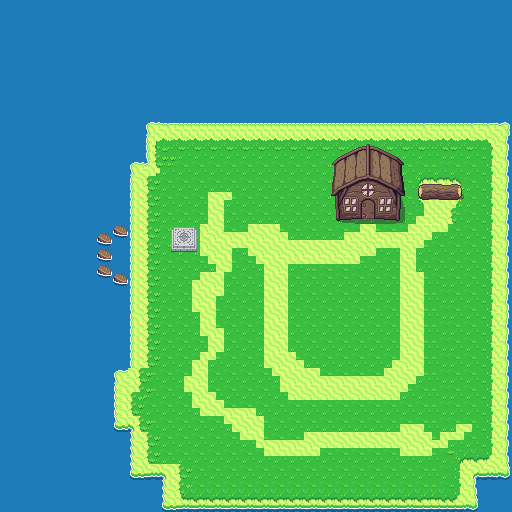
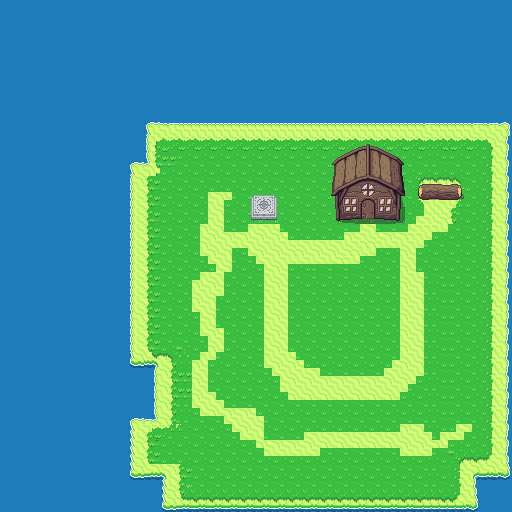
Implement Fishing skill and tweak Lumber Ridge island layout.

diff --git a/source/lumber_ridge.c b/source/lumber_ridge.c
@@ -82,18 +82,18 @@ const unsigned short lumber_ridge_Tile_Layer_1[4096] __attribute__((aligned(4)))
     0x01FE, 0x01FF, 0x01FE, 0x01FF, 0x01FE, 0x01FF, 0x01FE, 0x01FF, 0x0222, 0x0222, 0x0223, 0x0222, 0x01FE, 0x01FF, 0x01FE, 0x01FF, 0x023E, 0x023F, 0x0124, 0x0125, 0x0026, 0x0027, 0x0026, 0x0027, 0x0026, 0x0146, 0x0147, 0x0027, 0x0026, 0x0027, 0x0026, 0x0027, 
     0x0222, 0x0223, 0x0222, 0x0223, 0x0222, 0x0223, 0x0222, 0x0223, 0x0222, 0x01FE, 0x01FF, 0x01FE, 0x0222, 0x0223, 0x0222, 0x0223, 0x023E, 0x023F, 0x0148, 0x0149, 0x0002, 0x0003, 0x0002, 0x0003, 0x0002, 0x0122, 0x0123, 0x0122, 0x0002, 0x0003, 0x0002, 0x0003, 
     0x01FE, 0x01FF, 0x01FE, 0x01FF, 0x01FE, 0x01FF, 0x01FE, 0x01FF, 0x0222, 0x0222, 0x0223, 0x0222, 0x01FE, 0x01FF, 0x01FE, 0x01FF, 0x023E, 0x023F, 0x0124, 0x0125, 0x0026, 0x0027, 0x0026, 0x0027, 0x0026, 0x0027, 0x0147, 0x0146, 0x0026, 0x0027, 0x0026, 0x0027, 
-    0x0222, 0x0223, 0x0222, 0x0223, 0x0222, 0x0223, 0x0222, 0x0223, 0x0222, 0x01FE, 0x01FF, 0x01FE, 0x0222, 0x0223, 0x0222, 0x0223, 0x023E, 0x023F, 0x0148, 0x0149, 0x0002, 0x0003, 0x0002, 0x0003, 0x0002, 0x0003, 0x0123, 0x0122, 0x0002, 0x0003, 0x0002, 0x0003, 
-    0x01FE, 0x01FF, 0x01FE, 0x01FF, 0x01FE, 0x01FF, 0x01FE, 0x01FF, 0x0222, 0x0222, 0x0223, 0x0222, 0x01FE, 0x01FF, 0x01FE, 0x01FF, 0x023E, 0x023F, 0x0124, 0x0125, 0x0026, 0x0027, 0x0026, 0x0027, 0x0026, 0x0146, 0x0147, 0x0027, 0x0026, 0x0027, 0x0026, 0x0027, 
-    0x0222, 0x0223, 0x0222, 0x0223, 0x0222, 0x0223, 0x0222, 0x0223, 0x0222, 0x01FE, 0x01FF, 0x01FE, 0x0222, 0x0223, 0x0222, 0x0223, 0x023E, 0x023F, 0x0148, 0x0149, 0x0002, 0x0003, 0x0002, 0x0003, 0x0123, 0x0122, 0x0002, 0x0003, 0x0002, 0x0003, 0x0002, 0x0003, 
-    0x01FE, 0x01FF, 0x01FE, 0x01FF, 0x01FE, 0x01FF, 0x01FE, 0x01FF, 0x0222, 0x0222, 0x0223, 0x0222, 0x01FE, 0x01FF, 0x02A6, 0x02A7, 0x021B, 0x0124, 0x0125, 0x0027, 0x0026, 0x0027, 0x0026, 0x0027, 0x0147, 0x0146, 0x0026, 0x0027, 0x0026, 0x0027, 0x0026, 0x0027, 
-    0x0222, 0x0223, 0x0222, 0x0223, 0x0222, 0x0223, 0x0222, 0x0223, 0x0222, 0x01FE, 0x01FF, 0x01FE, 0x0222, 0x0223, 0x02CA, 0x02CB, 0x021B, 0x0148, 0x0149, 0x0003, 0x0002, 0x0003, 0x0002, 0x0122, 0x0123, 0x0122, 0x0002, 0x0003, 0x0002, 0x0003, 0x0002, 0x0003, 
-    0x01FE, 0x01FF, 0x01FE, 0x01FF, 0x01FE, 0x01FF, 0x01FE, 0x01FF, 0x0222, 0x0222, 0x0223, 0x0222, 0x01FE, 0x01FF, 0x021A, 0x021B, 0x021B, 0x0124, 0x0125, 0x0027, 0x0026, 0x0027, 0x0026, 0x0146, 0x0147, 0x0146, 0x0026, 0x0027, 0x0026, 0x0027, 0x0026, 0x0027, 
-    0x0222, 0x0223, 0x0222, 0x0223, 0x0222, 0x0223, 0x0222, 0x0223, 0x0222, 0x01FE, 0x01FF, 0x01FE, 0x0222, 0x0223, 0x021A, 0x021B, 0x0124, 0x0125, 0x0149, 0x0003, 0x0002, 0x0003, 0x0002, 0x0003, 0x0123, 0x0122, 0x0123, 0x0003, 0x0002, 0x0003, 0x0002, 0x0003, 
-    0x01FE, 0x01FF, 0x01FE, 0x01FF, 0x01FE, 0x01FF, 0x01FE, 0x01FF, 0x0222, 0x0222, 0x0223, 0x0222, 0x01FE, 0x01FF, 0x021A, 0x021B, 0x0124, 0x0125, 0x0026, 0x0027, 0x0026, 0x0027, 0x0026, 0x0027, 0x0147, 0x0146, 0x0147, 0x0146, 0x0026, 0x0027, 0x0026, 0x0027, 
-    0x0222, 0x0223, 0x0222, 0x0223, 0x0222, 0x0223, 0x0222, 0x0223, 0x0222, 0x01FE, 0x01FF, 0x01FE, 0x0222, 0x0223, 0x021A, 0x021B, 0x0148, 0x0149, 0x0002, 0x0003, 0x0002, 0x0003, 0x0002, 0x0003, 0x0002, 0x0122, 0x0123, 0x0122, 0x0123, 0x0122, 0x0123, 0x0122, 
-    0x01FE, 0x01FF, 0x01FE, 0x01FF, 0x01FE, 0x01FF, 0x01FE, 0x01FF, 0x0222, 0x0222, 0x0223, 0x0222, 0x01FE, 0x01FF, 0x02EE, 0x02EF, 0x02CC, 0x0124, 0x0125, 0x0027, 0x0026, 0x0027, 0x0026, 0x0027, 0x0026, 0x0027, 0x0026, 0x0027, 0x0147, 0x0146, 0x0147, 0x0146, 
-    0x0222, 0x0223, 0x0222, 0x0223, 0x0222, 0x0223, 0x0222, 0x0223, 0x0222, 0x01FE, 0x01FF, 0x01FE, 0x0222, 0x0223, 0x0312, 0x0313, 0x01F6, 0x0148, 0x0149, 0x0003, 0x0002, 0x0003, 0x0002, 0x0003, 0x0002, 0x0003, 0x0002, 0x0003, 0x0002, 0x0122, 0x0123, 0x0122, 
-    0x01FE, 0x01FF, 0x01FE, 0x01FF, 0x01FE, 0x01FF, 0x01FE, 0x01FF, 0x0222, 0x0222, 0x0223, 0x0222, 0x01FE, 0x01FF, 0x01FE, 0x01FF, 0x02CA, 0x02CB, 0x0124, 0x0125, 0x0026, 0x0027, 0x0026, 0x0027, 0x0026, 0x0027, 0x0026, 0x0027, 0x0026, 0x0027, 0x0147, 0x0146, 
+    0x0222, 0x0223, 0x0222, 0x0223, 0x0222, 0x0223, 0x0222, 0x0223, 0x0222, 0x01FE, 0x01FF, 0x01FE, 0x0222, 0x0223, 0x0222, 0x0223, 0x023E, 0x023F, 0x0148, 0x0149, 0x0002, 0x0003, 0x00DC, 0x00DD, 0x0002, 0x0003, 0x0123, 0x0122, 0x0002, 0x0003, 0x0002, 0x0003, 
+    0x01FE, 0x01FF, 0x01FE, 0x01FF, 0x01FE, 0x01FF, 0x01FE, 0x01FF, 0x0222, 0x0222, 0x0223, 0x0222, 0x01FE, 0x01FF, 0x01FE, 0x01FF, 0x02EE, 0x02EF, 0x01D0, 0x00FF, 0x00FE, 0x0100, 0x0101, 0x0101, 0x0026, 0x0146, 0x0147, 0x0027, 0x0026, 0x0027, 0x0026, 0x0027, 
+    0x0222, 0x0223, 0x0222, 0x0223, 0x0222, 0x0223, 0x0222, 0x0223, 0x0222, 0x01FE, 0x01FF, 0x01FE, 0x0222, 0x0223, 0x0222, 0x0223, 0x0312, 0x0313, 0x01F5, 0x01F6, 0x01F7, 0x0148, 0x0003, 0x0003, 0x0123, 0x0122, 0x0002, 0x0003, 0x0002, 0x0003, 0x0002, 0x0003, 
+    0x01FE, 0x01FF, 0x01FE, 0x01FF, 0x01FE, 0x01FF, 0x01FE, 0x01FF, 0x0222, 0x0222, 0x0223, 0x0222, 0x01FE, 0x01FF, 0x01FF, 0x01FE, 0x01FF, 0x01FE, 0x01FF, 0x021A, 0x021B, 0x0124, 0x0125, 0x0125, 0x0147, 0x0146, 0x0026, 0x0027, 0x0026, 0x0027, 0x0026, 0x0027, 
+    0x0222, 0x0223, 0x0222, 0x0223, 0x0222, 0x0223, 0x0222, 0x0223, 0x0222, 0x01FE, 0x01FF, 0x01FE, 0x0222, 0x0223, 0x0223, 0x0222, 0x0223, 0x0222, 0x01FF, 0x023E, 0x023F, 0x0148, 0x0149, 0x0149, 0x0123, 0x0122, 0x0002, 0x0003, 0x0002, 0x0003, 0x0002, 0x0003, 
+    0x01FE, 0x01FF, 0x01FE, 0x01FF, 0x01FE, 0x01FF, 0x01FE, 0x01FF, 0x0222, 0x0222, 0x0223, 0x0222, 0x01FE, 0x01FF, 0x01FF, 0x01FE, 0x01FF, 0x01FE, 0x01FF, 0x021A, 0x021B, 0x0124, 0x0125, 0x0125, 0x0147, 0x0146, 0x0026, 0x0027, 0x0026, 0x0027, 0x0026, 0x0027, 
+    0x0222, 0x0223, 0x0222, 0x0223, 0x0222, 0x0223, 0x0222, 0x0223, 0x0222, 0x01FE, 0x01FF, 0x01FE, 0x0222, 0x0223, 0x0223, 0x0222, 0x0223, 0x0222, 0x01FF, 0x023E, 0x023F, 0x0148, 0x0149, 0x0149, 0x0123, 0x0122, 0x0123, 0x0003, 0x0002, 0x0003, 0x0002, 0x0003, 
+    0x01FE, 0x01FF, 0x01FE, 0x01FF, 0x01FE, 0x01FF, 0x01FE, 0x01FF, 0x0222, 0x0222, 0x0223, 0x0222, 0x01FE, 0x01FF, 0x01FF, 0x01FE, 0x01FF, 0x01FE, 0x01FF, 0x021A, 0x021B, 0x0124, 0x0027, 0x0027, 0x0147, 0x0146, 0x0147, 0x0146, 0x0026, 0x0027, 0x0026, 0x0027, 
+    0x0222, 0x0223, 0x0222, 0x0223, 0x0222, 0x0223, 0x0222, 0x0223, 0x0222, 0x01FE, 0x01FF, 0x01FE, 0x0222, 0x0223, 0x0223, 0x0222, 0x0223, 0x0222, 0x01FF, 0x023E, 0x023F, 0x0148, 0x0003, 0x0003, 0x0002, 0x0122, 0x0123, 0x0122, 0x0123, 0x0122, 0x0123, 0x0122, 
+    0x01FE, 0x01FF, 0x01FE, 0x01FF, 0x01FE, 0x01FF, 0x01FE, 0x01FF, 0x0222, 0x0222, 0x0223, 0x0222, 0x01FE, 0x01FF, 0x01FF, 0x01FE, 0x02A6, 0x02A7, 0x0261, 0x0262, 0x0263, 0x0124, 0x0027, 0x0027, 0x0026, 0x0027, 0x0026, 0x0027, 0x0147, 0x0146, 0x0147, 0x0146, 
+    0x0222, 0x0223, 0x0222, 0x0223, 0x0222, 0x0223, 0x0222, 0x0223, 0x0222, 0x01FE, 0x01FF, 0x01FE, 0x0222, 0x0223, 0x0223, 0x0222, 0x02CA, 0x02CB, 0x0284, 0x016B, 0x016B, 0x016C, 0x016C, 0x016D, 0x0002, 0x0003, 0x0002, 0x0003, 0x0002, 0x0122, 0x0123, 0x0122, 
+    0x01FE, 0x01FF, 0x01FE, 0x01FF, 0x01FE, 0x01FF, 0x01FE, 0x01FF, 0x0222, 0x0222, 0x0223, 0x0222, 0x01FE, 0x01FF, 0x01FE, 0x01FF, 0x02CA, 0x02CB, 0x0124, 0x018E, 0x018F, 0x0027, 0x0190, 0x0191, 0x0026, 0x0027, 0x0026, 0x0027, 0x0026, 0x0027, 0x0147, 0x0146, 
     0x0222, 0x0223, 0x0222, 0x0223, 0x0222, 0x0223, 0x0222, 0x0223, 0x0222, 0x01FE, 0x01FF, 0x01FE, 0x0222, 0x0223, 0x0222, 0x0223, 0x02EE, 0x02EF, 0x0148, 0x0149, 0x0002, 0x0003, 0x0002, 0x0003, 0x0002, 0x0003, 0x0002, 0x0003, 0x0002, 0x0003, 0x0002, 0x0003, 
     0x01FE, 0x01FF, 0x01FE, 0x01FF, 0x01FE, 0x01FF, 0x01FE, 0x01FF, 0x0222, 0x0222, 0x0223, 0x0222, 0x01FE, 0x01FF, 0x01FE, 0x01FF, 0x02CA, 0x02CB, 0x0124, 0x0125, 0x0026, 0x0027, 0x0026, 0x0027, 0x0026, 0x0027, 0x0026, 0x0027, 0x0026, 0x0027, 0x0026, 0x0027, 
     0x0222, 0x0223, 0x0222, 0x0223, 0x0222, 0x0223, 0x0222, 0x0223, 0x0222, 0x01FE, 0x01FF, 0x01FE, 0x0222, 0x0223, 0x0222, 0x0223, 0x02EE, 0x02EF, 0x0148, 0x0149, 0x0002, 0x0003, 0x0002, 0x0003, 0x0002, 0x0003, 0x0002, 0x0003, 0x0002, 0x0003, 0x0002, 0x0003, 
@@ -166,14 +166,14 @@ const unsigned short lumber_ridge_Tile_Layer_2[4096] __attribute__((aligned(4)))
     0x0000, 0x0000, 0x0000, 0x0000, 0x0000, 0x0000, 0x0000, 0x0000, 0x0000, 0x0000, 0x0000, 0x0000, 0x0000, 0x0000, 0x0000, 0x0000, 0x0000, 0x0000, 0x0000, 0x0000, 0x0000, 0x0000, 0x0000, 0x0000, 0x0000, 0x0000, 0x0000, 0x0000, 0x0000, 0x0000, 0x0000, 0x0000, 
     0x0000, 0x0000, 0x0000, 0x0000, 0x0000, 0x0000, 0x0000, 0x0000, 0x0000, 0x0000, 0x0000, 0x0000, 0x0000, 0x0000, 0x0000, 0x0000, 0x0000, 0x0000, 0x0000, 0x0000, 0x0000, 0x0000, 0x0000, 0x0000, 0x0000, 0x0000, 0x0000, 0x0000, 0x0000, 0x0000, 0x0000, 0x0000, 
     0x0000, 0x0000, 0x0000, 0x0000, 0x0000, 0x0000, 0x0000, 0x0000, 0x0000, 0x0000, 0x0000, 0x0000, 0x0000, 0x0000, 0x0000, 0x0000, 0x0000, 0x0000, 0x0000, 0x0000, 0x0000, 0x0000, 0x0000, 0x0000, 0x0000, 0x0000, 0x0000, 0x0000, 0x0000, 0x0000, 0x0000, 0x0000, 
+    0x0000, 0x0000, 0x0000, 0x0000, 0x0000, 0x0000, 0x0000, 0x0000, 0x0000, 0x0000, 0x0000, 0x0000, 0x0000, 0x0000, 0x0000, 0x0000, 0x0000, 0x0000, 0x0000, 0x0000, 0x0000, 0x0000, 0x0000, 0x0000, 0x0000, 0x0000, 0x0000, 0x0000, 0x0000, 0x0000, 0x0000, 0x0034, 
+    0x0000, 0x0000, 0x0000, 0x0000, 0x0000, 0x0000, 0x0000, 0x0000, 0x0000, 0x0000, 0x0000, 0x0000, 0x0000, 0x0000, 0x0000, 0x0000, 0x0000, 0x0000, 0x0000, 0x0000, 0x0000, 0x0000, 0x0000, 0x0000, 0x0000, 0x0000, 0x0000, 0x0000, 0x0000, 0x0000, 0x0000, 0x0076, 
+    0x0000, 0x0000, 0x0000, 0x0000, 0x0000, 0x0000, 0x0000, 0x0000, 0x0000, 0x0000, 0x0000, 0x0000, 0x0000, 0x0000, 0x0000, 0x0000, 0x0000, 0x0000, 0x0000, 0x0000, 0x0000, 0x0000, 0x0000, 0x0000, 0x0000, 0x0000, 0x0000, 0x0000, 0x0000, 0x0000, 0x0000, 0x00B8, 
+    0x0000, 0x0000, 0x0000, 0x0000, 0x0000, 0x0000, 0x0000, 0x0000, 0x0000, 0x0000, 0x0000, 0x0000, 0x0000, 0x0000, 0x0000, 0x0000, 0x0000, 0x0000, 0x0000, 0x0000, 0x0000, 0x0000, 0x0000, 0x0000, 0x0000, 0x0000, 0x0000, 0x0000, 0x0000, 0x0000, 0x0000, 0x00FA, 
     0x0000, 0x0000, 0x0000, 0x0000, 0x0000, 0x0000, 0x0000, 0x0000, 0x0000, 0x0000, 0x0000, 0x0000, 0x0000, 0x0000, 0x0000, 0x0000, 0x0000, 0x0000, 0x0000, 0x0000, 0x0000, 0x0000, 0x0000, 0x0000, 0x0000, 0x0000, 0x0000, 0x0000, 0x0000, 0x0000, 0x0000, 0x0000, 
     0x0000, 0x0000, 0x0000, 0x0000, 0x0000, 0x0000, 0x0000, 0x0000, 0x0000, 0x0000, 0x0000, 0x0000, 0x0000, 0x0000, 0x0000, 0x0000, 0x0000, 0x0000, 0x0000, 0x0000, 0x0000, 0x0000, 0x0000, 0x0000, 0x0000, 0x0000, 0x0000, 0x0000, 0x0000, 0x0000, 0x0000, 0x0000, 
     0x0000, 0x0000, 0x0000, 0x0000, 0x0000, 0x0000, 0x0000, 0x0000, 0x0000, 0x0000, 0x0000, 0x0000, 0x0000, 0x0000, 0x0000, 0x0000, 0x0000, 0x0000, 0x0000, 0x0000, 0x0000, 0x0000, 0x0000, 0x0000, 0x0000, 0x0000, 0x0000, 0x0000, 0x0000, 0x0000, 0x0000, 0x0000, 
     0x0000, 0x0000, 0x0000, 0x0000, 0x0000, 0x0000, 0x0000, 0x0000, 0x0000, 0x0000, 0x0000, 0x0000, 0x0000, 0x0000, 0x0000, 0x0000, 0x0000, 0x0000, 0x0000, 0x0000, 0x0000, 0x0000, 0x0000, 0x0000, 0x0000, 0x0000, 0x0000, 0x0000, 0x0000, 0x0000, 0x0000, 0x0000, 
-    0x0000, 0x0000, 0x0000, 0x0000, 0x0000, 0x0000, 0x0000, 0x0000, 0x0000, 0x0000, 0x0000, 0x0000, 0x0000, 0x0000, 0x02E6, 0x02E7, 0x0000, 0x0000, 0x0000, 0x0000, 0x0000, 0x0034, 0x0035, 0x0036, 0x0037, 0x0000, 0x0000, 0x0000, 0x0000, 0x0000, 0x0000, 0x0000, 
-    0x0000, 0x0000, 0x0000, 0x0000, 0x0000, 0x0000, 0x0000, 0x0000, 0x0000, 0x0000, 0x0000, 0x0000, 0x02E6, 0x02E7, 0x030A, 0x030B, 0x0000, 0x0000, 0x0000, 0x0000, 0x0000, 0x0076, 0x0077, 0x0078, 0x0079, 0x0000, 0x0000, 0x0000, 0x0000, 0x0000, 0x0000, 0x0000, 
-    0x0000, 0x0000, 0x0000, 0x0000, 0x0000, 0x0000, 0x0000, 0x0000, 0x0000, 0x0000, 0x0000, 0x0000, 0x030A, 0x030B, 0x0000, 0x0000, 0x0000, 0x0000, 0x0000, 0x0000, 0x0000, 0x00B8, 0x00B9, 0x00BA, 0x00BB, 0x0000, 0x0000, 0x0000, 0x0000, 0x0000, 0x0000, 0x0000, 
-    0x0000, 0x0000, 0x0000, 0x0000, 0x0000, 0x0000, 0x0000, 0x0000, 0x0000, 0x0000, 0x0000, 0x0000, 0x02E6, 0x02E7, 0x0000, 0x0000, 0x0000, 0x0000, 0x0000, 0x0000, 0x0000, 0x00FA, 0x00FB, 0x00FC, 0x00FD, 0x0000, 0x0000, 0x0000, 0x0000, 0x0000, 0x0000, 0x0000, 
 
     // Screenblock 1
     0x0000, 0x0000, 0x0000, 0x0000, 0x0000, 0x0000, 0x0000, 0x0000, 0x0000, 0x0000, 0x0000, 0x0000, 0x0000, 0x0000, 0x0000, 0x0000, 0x0000, 0x0000, 0x0000, 0x0000, 0x0000, 0x0000, 0x0000, 0x0000, 0x0000, 0x0000, 0x0000, 0x0000, 0x0000, 0x0000, 0x0000, 0x0000, 
@@ -200,20 +200,20 @@ const unsigned short lumber_ridge_Tile_Layer_2[4096] __attribute__((aligned(4)))
     0x0000, 0x0000, 0x0000, 0x0000, 0x0000, 0x0000, 0x0000, 0x0000, 0x0000, 0x0078, 0x0079, 0x007A, 0x007B, 0x007C, 0x007D, 0x007E, 0x007F, 0x0080, 0x0081, 0x0000, 0x0000, 0x0000, 0x0000, 0x0000, 0x0000, 0x0000, 0x0000, 0x0000, 0x0000, 0x0000, 0x0000, 0x0000, 
     0x0000, 0x0000, 0x0000, 0x0000, 0x0000, 0x0000, 0x0000, 0x0000, 0x0000, 0x009C, 0x009D, 0x009E, 0x009F, 0x00A0, 0x00A1, 0x00A2, 0x00A3, 0x00A4, 0x00A5, 0x0000, 0x0000, 0x0000, 0x0000, 0x0000, 0x0000, 0x0000, 0x0000, 0x0000, 0x0000, 0x0000, 0x0000, 0x0000, 
     0x0000, 0x0000, 0x0000, 0x0000, 0x0000, 0x0000, 0x0000, 0x0000, 0x0000, 0x00C0, 0x00C1, 0x00C2, 0x00C3, 0x00C4, 0x00C5, 0x00C6, 0x00C7, 0x00C8, 0x00C9, 0x0000, 0x016E, 0x016F, 0x0170, 0x0171, 0x0172, 0x0173, 0x0000, 0x0000, 0x0000, 0x0000, 0x0000, 0x0000, 
-    0x0000, 0x0000, 0x0000, 0x0000, 0x0000, 0x0000, 0x0000, 0x0000, 0x0000, 0x00E4, 0x00E5, 0x00E6, 0x00E7, 0x0140, 0x0141, 0x00EA, 0x00EB, 0x00EC, 0x00ED, 0x0000, 0x0192, 0x0193, 0x0194, 0x0195, 0x0196, 0x0197, 0x0000, 0x0000, 0x0000, 0x0000, 0x0000, 0x0000, 
-    0x0000, 0x0000, 0x0000, 0x0000, 0x0000, 0x0000, 0x0000, 0x0000, 0x0000, 0x0108, 0x0109, 0x010A, 0x010B, 0x0164, 0x0165, 0x010E, 0x010F, 0x0110, 0x0111, 0x0000, 0x0000, 0x0000, 0x0000, 0x0000, 0x0000, 0x0000, 0x0000, 0x0000, 0x0000, 0x0000, 0x0000, 0x0000, 
-    0x0000, 0x0000, 0x0000, 0x0000, 0x0000, 0x0000, 0x0000, 0x0000, 0x0000, 0x012C, 0x012D, 0x012E, 0x012F, 0x0188, 0x0189, 0x0132, 0x0133, 0x0134, 0x0135, 0x0000, 0x0000, 0x0000, 0x0000, 0x0000, 0x0000, 0x0000, 0x0000, 0x0000, 0x0000, 0x0000, 0x0000, 0x0000, 
-    0x0000, 0x0000, 0x0000, 0x0000, 0x0000, 0x0000, 0x0000, 0x0000, 0x0000, 0x0150, 0x0151, 0x0152, 0x0153, 0x01AC, 0x01AD, 0x0156, 0x0157, 0x0158, 0x0159, 0x0000, 0x0000, 0x0000, 0x0000, 0x0000, 0x0000, 0x0000, 0x0000, 0x0000, 0x0000, 0x0000, 0x0000, 0x0000, 
+    0x0035, 0x0036, 0x0037, 0x0000, 0x0000, 0x0000, 0x0000, 0x0000, 0x0000, 0x00E4, 0x00E5, 0x00E6, 0x00E7, 0x0140, 0x0141, 0x00EA, 0x00EB, 0x00EC, 0x00ED, 0x0000, 0x0192, 0x0193, 0x0194, 0x0195, 0x0196, 0x0197, 0x0000, 0x0000, 0x0000, 0x0000, 0x0000, 0x0000, 
+    0x0077, 0x0078, 0x0079, 0x0000, 0x0000, 0x0000, 0x0000, 0x0000, 0x0000, 0x0108, 0x0109, 0x010A, 0x010B, 0x0164, 0x0165, 0x010E, 0x010F, 0x0110, 0x0111, 0x0000, 0x0000, 0x0000, 0x0000, 0x0000, 0x0000, 0x0000, 0x0000, 0x0000, 0x0000, 0x0000, 0x0000, 0x0000, 
+    0x00B9, 0x00BA, 0x00BB, 0x0000, 0x0000, 0x0000, 0x0000, 0x0000, 0x0000, 0x012C, 0x012D, 0x012E, 0x012F, 0x0188, 0x0189, 0x0132, 0x0133, 0x0134, 0x0135, 0x0000, 0x0000, 0x0000, 0x0000, 0x0000, 0x0000, 0x0000, 0x0000, 0x0000, 0x0000, 0x0000, 0x0000, 0x0000, 
+    0x00FB, 0x00FC, 0x00FD, 0x0000, 0x0000, 0x0000, 0x0000, 0x0000, 0x0000, 0x0150, 0x0151, 0x0152, 0x0153, 0x01AC, 0x01AD, 0x0156, 0x0157, 0x0158, 0x0159, 0x0000, 0x0000, 0x0000, 0x0000, 0x0000, 0x0000, 0x0000, 0x0000, 0x0000, 0x0000, 0x0000, 0x0000, 0x0000, 
     0x0000, 0x0000, 0x0000, 0x0000, 0x0000, 0x0000, 0x0000, 0x0000, 0x0000, 0x0000, 0x0000, 0x0000, 0x0000, 0x0000, 0x0000, 0x0000, 0x0000, 0x0000, 0x0000, 0x0000, 0x0000, 0x0000, 0x0000, 0x0000, 0x0000, 0x0000, 0x0000, 0x0000, 0x0000, 0x0000, 0x0000, 0x0000, 
     0x0000, 0x0000, 0x0000, 0x0000, 0x0000, 0x0000, 0x0000, 0x0000, 0x0000, 0x0000, 0x0000, 0x0000, 0x0000, 0x0000, 0x0000, 0x0000, 0x0000, 0x0000, 0x0000, 0x0000, 0x0000, 0x0000, 0x0000, 0x0000, 0x0000, 0x0000, 0x0000, 0x0000, 0x0000, 0x0000, 0x0000, 0x0000, 
     0x0000, 0x0000, 0x0000, 0x0000, 0x0000, 0x0000, 0x0000, 0x0000, 0x0000, 0x0000, 0x0000, 0x0000, 0x0000, 0x0000, 0x0000, 0x0000, 0x0000, 0x0000, 0x0000, 0x0000, 0x0000, 0x0000, 0x0000, 0x0000, 0x0000, 0x0000, 0x0000, 0x0000, 0x0000, 0x0000, 0x0000, 0x0000, 
     0x0000, 0x0000, 0x0000, 0x0000, 0x0000, 0x0000, 0x0000, 0x0000, 0x0000, 0x0000, 0x0000, 0x0000, 0x0000, 0x0000, 0x0000, 0x0000, 0x0000, 0x0000, 0x0000, 0x0000, 0x0000, 0x0000, 0x0000, 0x0000, 0x0000, 0x0000, 0x0000, 0x0000, 0x0000, 0x0000, 0x0000, 0x0000, 
 
     // Screenblock 2
-    0x0000, 0x0000, 0x0000, 0x0000, 0x0000, 0x0000, 0x0000, 0x0000, 0x0000, 0x0000, 0x0000, 0x0000, 0x030A, 0x030B, 0x0000, 0x0000, 0x0000, 0x0000, 0x0000, 0x0000, 0x0000, 0x0000, 0x0000, 0x0000, 0x0000, 0x0000, 0x0000, 0x0000, 0x0000, 0x0000, 0x0000, 0x0000, 
-    0x0000, 0x0000, 0x0000, 0x0000, 0x0000, 0x0000, 0x0000, 0x0000, 0x0000, 0x0000, 0x0000, 0x0000, 0x02E6, 0x02E7, 0x0000, 0x0000, 0x0000, 0x0000, 0x0000, 0x0000, 0x0000, 0x0000, 0x0000, 0x0000, 0x0000, 0x0000, 0x0000, 0x0000, 0x0000, 0x0000, 0x0000, 0x0000, 
-    0x0000, 0x0000, 0x0000, 0x0000, 0x0000, 0x0000, 0x0000, 0x0000, 0x0000, 0x0000, 0x0000, 0x0000, 0x030A, 0x030B, 0x02E6, 0x02E7, 0x0000, 0x0000, 0x0000, 0x0000, 0x0000, 0x0000, 0x0000, 0x0000, 0x0000, 0x0000, 0x0000, 0x0000, 0x0000, 0x0000, 0x0000, 0x0000, 
-    0x0000, 0x0000, 0x0000, 0x0000, 0x0000, 0x0000, 0x0000, 0x0000, 0x0000, 0x0000, 0x0000, 0x0000, 0x0000, 0x0000, 0x030A, 0x030B, 0x0000, 0x0000, 0x0000, 0x0000, 0x0000, 0x0000, 0x0000, 0x0000, 0x0000, 0x0000, 0x0000, 0x0000, 0x0000, 0x0000, 0x0000, 0x0000, 
+    0x0000, 0x0000, 0x0000, 0x0000, 0x0000, 0x0000, 0x0000, 0x0000, 0x0000, 0x0000, 0x0000, 0x0000, 0x0000, 0x0000, 0x0000, 0x0000, 0x0000, 0x0000, 0x0000, 0x0000, 0x0000, 0x0000, 0x0000, 0x0000, 0x0000, 0x0000, 0x0000, 0x0000, 0x0000, 0x0000, 0x0000, 0x0000, 
+    0x0000, 0x0000, 0x0000, 0x0000, 0x0000, 0x0000, 0x0000, 0x0000, 0x0000, 0x0000, 0x0000, 0x0000, 0x0000, 0x0000, 0x0000, 0x0000, 0x0000, 0x0000, 0x0000, 0x0000, 0x0000, 0x0000, 0x0000, 0x0000, 0x0000, 0x0000, 0x0000, 0x0000, 0x0000, 0x0000, 0x0000, 0x0000, 
+    0x0000, 0x0000, 0x0000, 0x0000, 0x0000, 0x0000, 0x0000, 0x0000, 0x0000, 0x0000, 0x0000, 0x0000, 0x0000, 0x0000, 0x0000, 0x0000, 0x0000, 0x0000, 0x0000, 0x0000, 0x0000, 0x0000, 0x0000, 0x0000, 0x0000, 0x0000, 0x0000, 0x0000, 0x0000, 0x0000, 0x0000, 0x0000, 
+    0x0000, 0x0000, 0x0000, 0x0000, 0x0000, 0x0000, 0x0000, 0x0000, 0x0000, 0x0000, 0x0000, 0x0000, 0x0000, 0x0000, 0x0000, 0x0000, 0x0000, 0x0000, 0x0000, 0x0000, 0x0000, 0x0000, 0x0000, 0x0000, 0x0000, 0x0000, 0x0000, 0x0000, 0x0000, 0x0000, 0x0000, 0x0000, 
     0x0000, 0x0000, 0x0000, 0x0000, 0x0000, 0x0000, 0x0000, 0x0000, 0x0000, 0x0000, 0x0000, 0x0000, 0x0000, 0x0000, 0x0000, 0x0000, 0x0000, 0x0000, 0x0000, 0x0000, 0x0000, 0x0000, 0x0000, 0x0000, 0x0000, 0x0000, 0x0000, 0x0000, 0x0000, 0x0000, 0x0000, 0x0000, 
     0x0000, 0x0000, 0x0000, 0x0000, 0x0000, 0x0000, 0x0000, 0x0000, 0x0000, 0x0000, 0x0000, 0x0000, 0x0000, 0x0000, 0x0000, 0x0000, 0x0000, 0x0000, 0x0000, 0x0000, 0x0000, 0x0000, 0x0000, 0x0000, 0x0000, 0x0000, 0x0000, 0x0000, 0x0000, 0x0000, 0x0000, 0x0000, 
     0x0000, 0x0000, 0x0000, 0x0000, 0x0000, 0x0000, 0x0000, 0x0000, 0x0000, 0x0000, 0x0000, 0x0000, 0x0000, 0x0000, 0x0000, 0x0000, 0x0000, 0x0000, 0x0000, 0x0000, 0x0000, 0x0000, 0x0000, 0x0000, 0x0000, 0x0000, 0x0000, 0x0000, 0x0000, 0x0000, 0x0000, 0x0000, 
@@ -324,14 +324,14 @@ const u64 LUMBER_RIDGE_collisionData[64]={
[22 lines of base64/hex data omitted]

diff --git a/source/main.c b/source/main.c
@@ -21,10 +21,11 @@ OBJ_ATTR sprite[128];
 s32 worldX = 0;
 s32 worldY = 0;
 
-u8 skillSpriteLut[_Skill_ARRAYSIZE] = {
+u32 skillSpriteLut[_Skill_ARRAYSIZE] = {
   0, // Skill_UNKNOWN_SKILL
-  224, // Skill_WOODCUTTING
-  232, // Skill_MINING
+  256, // Skill_WOODCUTTING
+  264, // Skill_MINING
+  272, // Skill_FISHING
 };
 
 void initialize_sprites() {
@@ -38,9 +39,11 @@ void initialize_sprites() {
   dma3_cpy(&tile_mem[4][128], chestTiles, chestTilesLen);
   dma3_cpy(&tile_mem[4][160], rock1Tiles, rock1TilesLen);
   dma3_cpy(&tile_mem[4][192], rock2Tiles, rock2TilesLen);
+  dma3_cpy(&tile_mem[4][224], fishing_spotTiles, fishing_spotTilesLen);
 
   dma3_cpy(&tile_mem[4][skillSpriteLut[Skill_WOODCUTTING]], axeTiles, axeTilesLen);
   dma3_cpy(&tile_mem[4][skillSpriteLut[Skill_MINING]], pickTiles, pickTilesLen);
+  dma3_cpy(&tile_mem[4][skillSpriteLut[Skill_FISHING]], rodTiles, rodTilesLen);
 }
 
 u8 itemSpriteLut[_Item_ARRAYSIZE] = {
@@ -84,7 +87,7 @@ typedef struct {
 } Player;
 Player p;
 
-s32 skill_levels[_Skill_ARRAYSIZE] = {-1, -1, -1};
+s32 skill_levels[_Skill_ARRAYSIZE] = {-1, -1, -1, -1};
 
 s32 bank[_Item_ARRAYSIZE] = {0, 0, 0, 0, 0};
 
@@ -338,10 +341,13 @@ void show_skill_stats() {
 
   char buffer[8];
   sprintf(buffer, "Level %d", skill_levels[Skill_WOODCUTTING]);
-  tte_write_ex(50, 50, buffer, NULL);
+  tte_write_ex(50, 42, buffer, NULL);
 
   sprintf(buffer, "Level %d", skill_levels[Skill_MINING]);
-  tte_write_ex(50, 100, buffer, NULL);
+  tte_write_ex(50, 82, buffer, NULL);
+
+  sprintf(buffer, "Level %d", skill_levels[Skill_FISHING]);
+  tte_write_ex(50, 122, buffer, NULL);
 }
 
 void show_inventory_sprite(OBJ_ATTR* menu_sprite, u32 i, u32 row, u32 col, Item item) {

diff --git a/source/protos/network_messages.pb.h b/source/protos/network_messages.pb.h
@@ -29,7 +29,8 @@ typedef enum _MapLocation {
 typedef enum _Skill { 
     Skill_UNKNOWN_SKILL = 0, 
     Skill_WOODCUTTING = 1, 
-    Skill_MINING = 2 
+    Skill_MINING = 2, 
+    Skill_FISHING = 3 
 } Skill;
 
 typedef enum _Item { 
@@ -116,8 +117,8 @@ typedef struct _ServerUpdate {
 #define _MapLocation_ARRAYSIZE ((MapLocation)(MapLocation_TOWN+1))
 
 #define _Skill_MIN Skill_UNKNOWN_SKILL
-#define _Skill_MAX Skill_MINING
-#define _Skill_ARRAYSIZE ((Skill)(Skill_MINING+1))
+#define _Skill_MAX Skill_FISHING
+#define _Skill_ARRAYSIZE ((Skill)(Skill_FISHING+1))
 
 #define _Item_MIN Item_UNKNOWN_ITEM
 #define _Item_MAX Item_COOKED_FISH
